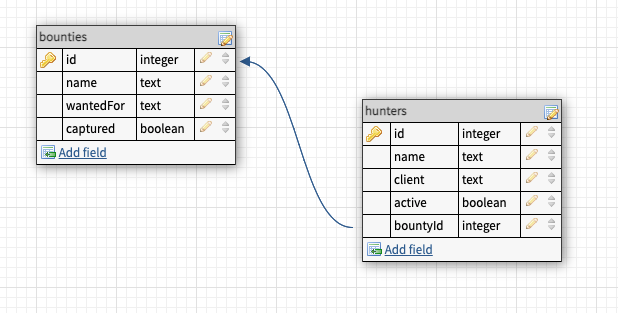
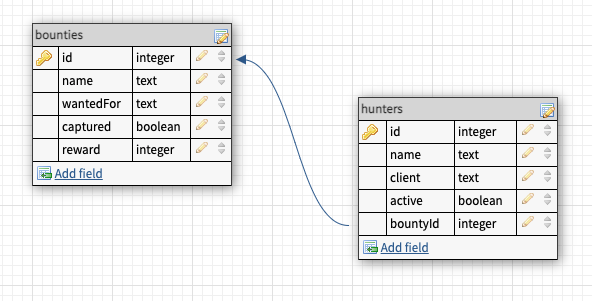
updated erd, associations steps 1 to 3

diff --git a/dbTest.js b/dbTest.js
@@ -9,6 +9,24 @@ const models = require('./models')
     reward: 500000
 }) */
 
+// Reward for Han didn't get added, so here's a bonus update crud
+
+/* let hanSoloReward = async () => {
+    try {
+        let hanSolo = await models.bounty.findOne({
+            where: {
+                name: 'Han Solo'
+            }
+        })
+        hanSolo.update({
+            reward: 500000
+        })
+    } catch (error) {
+        console.log(error.message)
+    }
+}
+hanSoloReward() */
+
 // 2. Make a hunter with a name of Boba Fett, a client of Jabba the Hut, and an active of true.
 
 /* models.hunter.create({
@@ -102,7 +120,7 @@ dengarBye() */
 // 8. Ok recreate Dengar. The deletion was just for practice. We'll actually need him later.
 // Reusing the code from question 3
 
-let dengarCheck = async () => {
+/* let dengarCheck = async () => {
     try {
         let dengar = await models.hunter.findOrCreate({
             where: {
@@ -117,4 +135,61 @@ let dengarCheck = async () => {
     }
 }
 
-dengarCheck()
+dengarCheck() */
+
+// Association
+// 1. Look up Han Solo and save him to a variable. Look up Boba Fett and assign him to a variable too. Associate the two with hanSolo.addHunters(bobaFett)
+
+/* let hanSoloTargetLocked = async () => {
+    try {
+        let hanSolo = await models.bounty.findOne({
+            where: {
+                name: 'Han Solo'
+            }
+        })
+        let bobaFett = await models.hunter.findOne({
+            where: {
+                name: 'Boba Fett'
+            }
+        })
+        hanSolo.addHunter(bobaFett)
+
+    } catch (error) {
+        console.log(error.message)
+    }
+}
+hanSoloTargetLocked() */
+
+// 2. Look up Han Solo, save him to a variable. Look up his hunters with hanSolo.getHunters() and save the result to a variable, then log that variable.
+
+/* let hanSoloInTrouble = async () => {
+    try {
+        let hanSolo = await models.bounty.findOne({
+            where: {
+                name: 'Han Solo'
+            }
+        })
+        let hanSoloHunters = await hanSolo.getHunters()
+        console.log(hanSoloHunters)
+    } catch (error) {
+        console.log(error.message)
+    }
+}
+hanSoloInTrouble() */
+
+// 3. Look up Bobba Fett, save him to a variable. Look up his bounty with bobbaFett.getBounty(), and log that variable.
+
+let bobaFettCheck = async () => {
+    try {
+        let bobaFett = await models.hunter.findOne({
+            where: {
+                name: 'Boba Fett'
+            }
+        })
+        let bobaFettBounties = await bobaFett.getBounty()
+        console.log(bobaFettBounties)
+    } catch (error) {
+        console.log(error.message)
+    }
+}
+bobaFettCheck()

diff --git a/migrations/20210401011859-add-bountyId-to-hunters.js b/migrations/20210401011859-add-bountyId-to-hunters.js
@@ -1,0 +1,22 @@
+'use strict';
+
+module.exports = {
+  up: async (queryInterface, Sequelize) => {
+    /**
+     * Add altering commands here.
+     *
+     * Example:
+     * await queryInterface.createTable('users', { id: Sequelize.INTEGER });
+     */
+     await queryInterface.addColumn('hunters', 'bountyId', { type: Sequelize.DataTypes.INTEGER })
+  },
+
+  down: async (queryInterface, Sequelize) => {
+    /**
+     * Add reverting commands here.
+     *
+     * Example:
+     * await queryInterface.dropTable('users');
+     */
+  }
+};

diff --git a/models/hunter.js b/models/hunter.js
@@ -10,7 +10,7 @@ module.exports = (sequelize, DataTypes) => {
      * The `models/index` file will call this method automatically.
      */
     static associate(models) {
-      // define association here
+      models.hunter.belongsTo(models.bounty)
     }
   };
   hunter.init({

diff --git a/models/bounty.js b/models/bounty.js
@@ -10,7 +10,7 @@ module.exports = (sequelize, DataTypes) => {
      * The `models/index` file will call this method automatically.
      */
     static associate(models) {
-      // define association here
+      models.bounty.hasMany(models.hunter)
     }
   };
   bounty.init({
